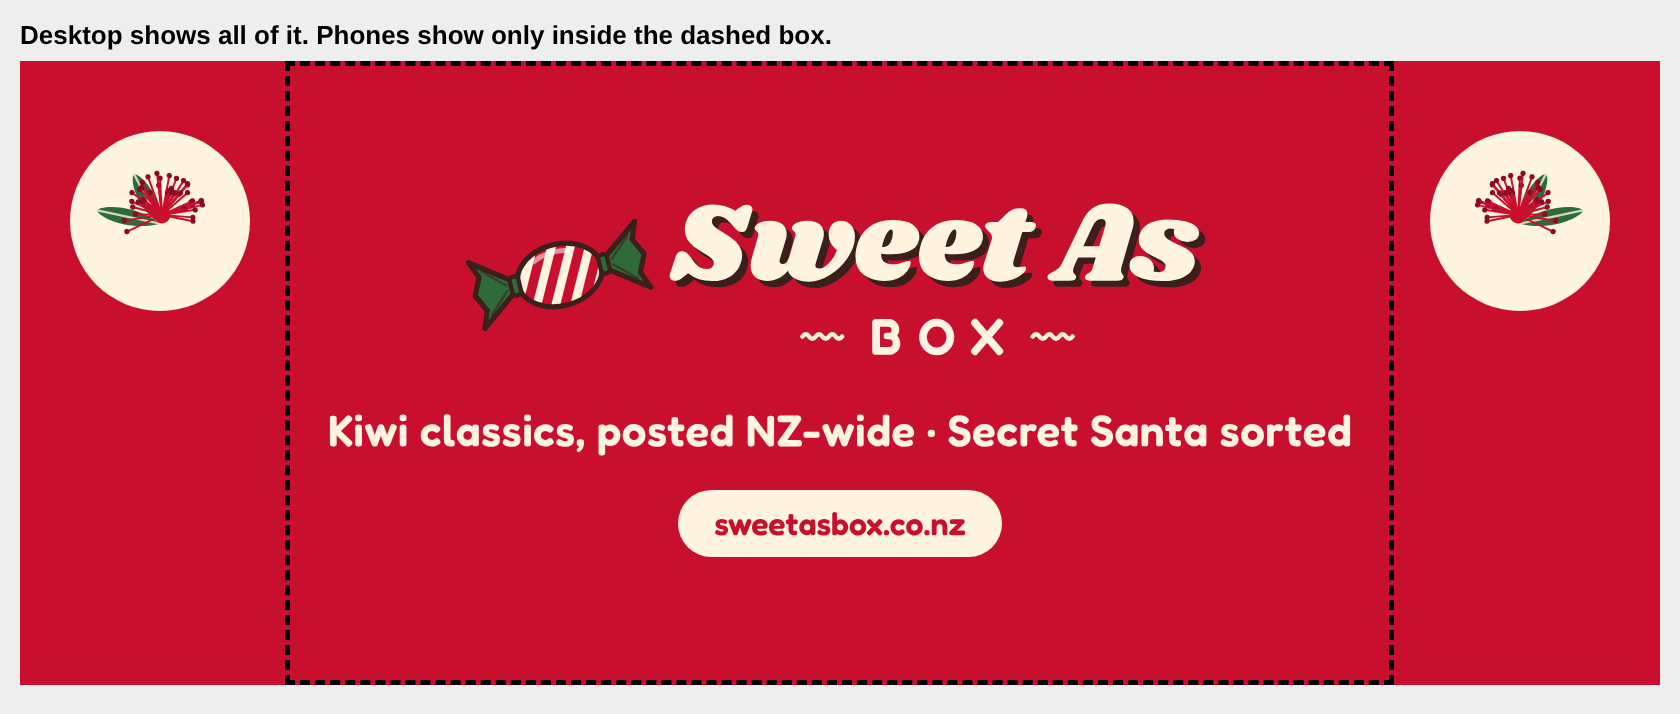
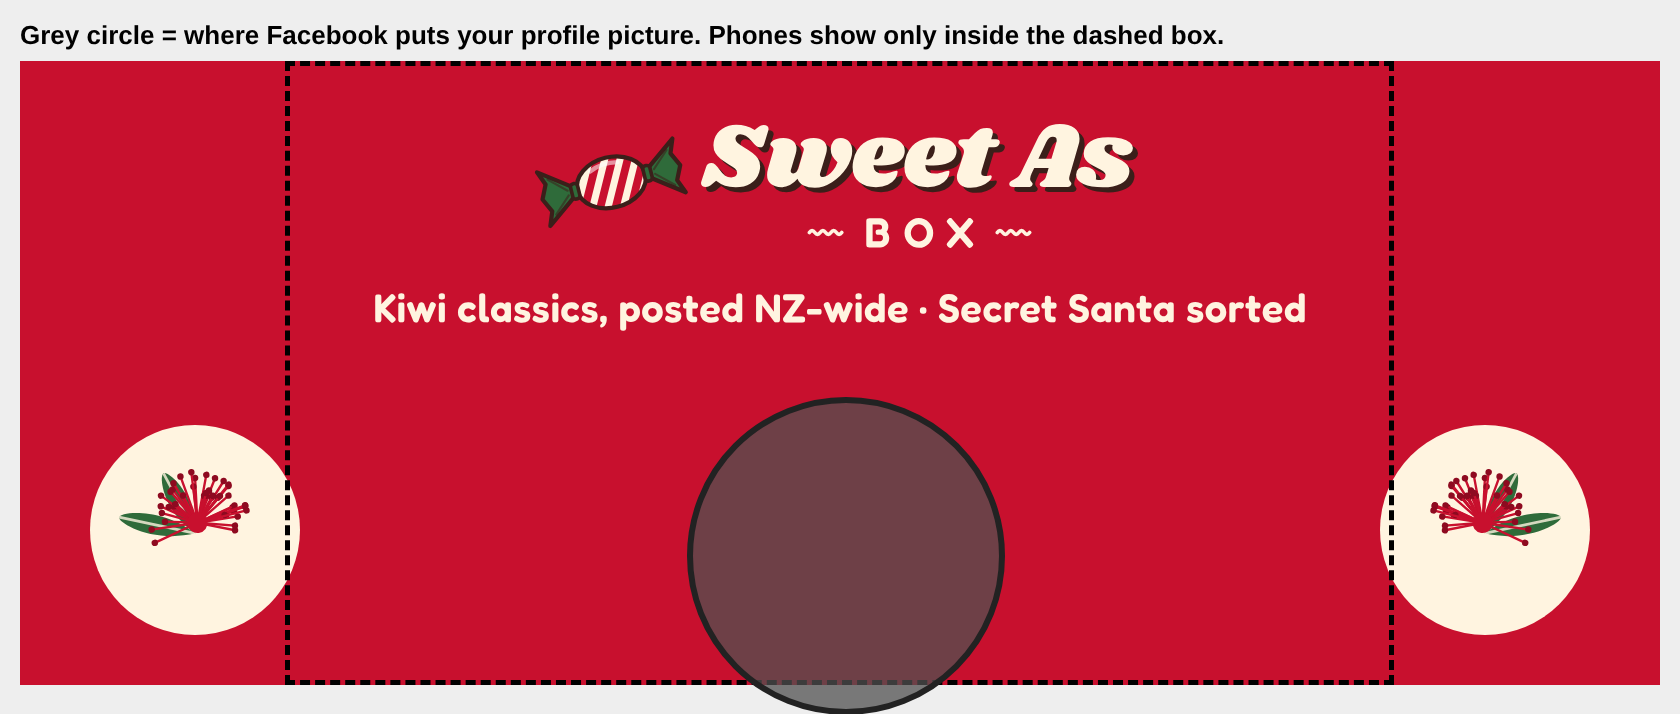
Move Facebook cover content clear of the profile picture
Facebook now centres the profile picture over the bottom of the cover,
which hid the tagline. Logo and tagline move to the top half, the
website pill is dropped, and the crop check shows the profile area.

Claude-Session: https://claude.ai/code/session_01G8jQpDm2eCVTtLqj4DgJJi

diff --git a/sweet-as-box/facebook/FACEBOOK-SETUP.md b/sweet-as-box/facebook/FACEBOOK-SETUP.md
@@ -23,8 +23,9 @@ look for the same name nearby.
 
 ## Step 2: Add your pictures
 1. **Profile picture:** upload `sweet-as-box-instagram-profile.png`. Facebook shows it as a circle, and the lolly is centred for that.
-2. **Cover photo:** upload `sweet-as-box-facebook-cover.png`. Phones crop the sides off, so the logo and text are
-   all in the middle where every screen shows them. See `cover-crop-check.png`.
+2. **Cover photo:** upload `sweet-as-box-facebook-cover.png`. Facebook places your round profile picture over the
+   **bottom-centre** of the cover, so the logo and text sit in the top half and the bottom-centre is left clear.
+   Phones also crop the sides. `cover-crop-check.png` shows both.
 
 ## Step 3: Details
 In the Page's **Edit details / Page setup** section:
